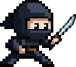
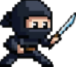
1

diff --git a/untitled game.py b/untitled game.py
@@ -1,0 +1,187 @@
+import pygame
+import sys
+import random
+
+pygame.init()
+
+WIDTH, HEIGHT = 800, 600
+screen = pygame.display.set_mode((WIDTH, HEIGHT))
+pygame.display.set_caption("untitled game.py")
+
+ninja_img = pygame.image.load("ninja.png").convert_alpha()
+ninja_attack_img = pygame.image.load("pixel_ninja_attack_wbackground.png").convert_alpha()
+background_img = pygame.image.load("dungeonbg.png").convert()
+zombie_img = pygame.image.load("zombie.png").convert_alpha()
+
+white = (255, 255, 255)
+black = (0, 0, 0)
+gray = (200, 200, 200)
+red = (255, 0, 0)
+green = (0, 255, 0)
+
+
+class Ninja(pygame.sprite.Sprite):
+    def __init__(self):
+        super().__init__()
+        self.normal_image = ninja_img
+        self.attack_image = ninja_attack_img
+        self.image = self.normal_image
+        self.rect = self.image.get_rect()
+        self.rect.center = (WIDTH // 2, HEIGHT // 2)
+        self.speed = 5
+        self.attacking = False
+        self.attack_timer = 0
+        self.attack_cooldown = 60
+        self.cooldown_timer = 0
+
+    def attack(self):
+        if not self.attacking and self.cooldown_timer == 0:
+            self.attacking = True
+            self.image = self.attack_image
+            self.attack_timer = 30
+            self.cooldown_timer = self.attack_cooldown
+
+    def update(self):
+        if self.attacking:
+            self.attack_timer -= 1
+            if self.attack_timer <= 0:
+                self.attacking = False
+                self.image = self.normal_image
+
+        if self.cooldown_timer > 0:
+            self.cooldown_timer -= 1
+
+
+class Zombie(pygame.sprite.Sprite):
+    def __init__(self, x):
+        super().__init__()
+        self.image = zombie_img
+        self.rect = self.image.get_rect()
+        self.rect.x = x
+        self.rect.bottom = HEIGHT - 250
+        self.speed = 2
+
+    def update(self, ninja_x):
+        if abs(self.rect.x - ninja_x) < 200:
+            if self.rect.x < ninja_x:
+                self.rect.x += self.speed
+            elif self.rect.x > ninja_x:
+                self.rect.x -= self.speed
+
+
+class Button:
+    def __init__(self, x, y, width, height, text, color, hover_color):
+        self.rect = pygame.Rect(x, y, width, height)
+        self.text = text
+        self.color = color
+        self.hover_color = hover_color
+        self.is_hovered = False
+
+    def draw(self, surface):
+        color = self.hover_color if self.is_hovered else self.color
+        pygame.draw.rect(surface, color, self.rect, border_radius=12)
+        pygame.draw.rect(surface, black, self.rect, 2, border_radius=12)
+        font = pygame.font.Font(None, 36)
+        text_surface = font.render(self.text, True, black)
+        text_rect = text_surface.get_rect(center=self.rect.center)
+        surface.blit(text_surface, text_rect)
+
+    def check_hover(self, pos):
+        self.is_hovered = self.rect.collidepoint(pos)
+
+    def handle_event(self, event):
+        if event.type == pygame.MOUSEBUTTONDOWN and event.button == 1 and self.is_hovered:
+            return True
+        return False
+
+
+class Screen:
+    def __init__(self):
+        self.buttons = []
+
+    def add_button(self, button):
+        self.buttons.append(button)
+
+    def draw(self, surface):
+        for button in self.buttons:
+            button.draw(surface)
+
+    def handle_events(self, event):
+        for button in self.buttons:
+            button.check_hover(pygame.mouse.get_pos())
+            if button.handle_event(event):
+                return button.text
+        return None
+
+
+main_menu = Screen()
+main_menu.add_button(Button(300, 200, 200, 50, "Начать", gray, green))
+main_menu.add_button(Button(300, 300, 200, 50, "Выход", gray, red))
+
+game_screen = Screen()
+
+name_screen = Screen()
+name_screen.add_button(Button(300, 200, 200, 50, "Продолжить", gray, green))
+
+ninja = Ninja()
+zombies = pygame.sprite.Group()
+bg_width = background_img.get_width()
+tiles = int(WIDTH / bg_width) + 2
+scroll = 0
+
+
+def create_zombie():
+    x = random.randint(0, bg_width - 1) + scroll
+    zombie = Zombie(x)
+    zombies.add(zombie)
+
+
+for a in range(tiles):
+    create_zombie()
+
+clock = pygame.time.Clock()
+running = True
+current_screen = main_menu
+
+while running:
+    for event in pygame.event.get():
+        if event.type == pygame.QUIT:
+            running = False
+        action = current_screen.handle_events(event)
+        if action == "Начать":
+            current_screen = game_screen
+        elif action == "Выход":
+            running = False
+        elif event.type == pygame.MOUSEBUTTONDOWN:
+            if event.button == 1 and current_screen == game_screen:
+                ninja.attack()
+
+    if current_screen == game_screen:
+        keys = pygame.key.get_pressed()
+        if keys[pygame.K_a]:
+            scroll += ninja.speed
+        if keys[pygame.K_d]:
+            scroll -= ninja.speed
+
+        ninja.update()
+        zombies.update(WIDTH // 2 - scroll)
+
+        for i in range(0, tiles):
+            screen.blit(background_img, (i * bg_width + scroll, 0))
+
+        if abs(scroll) > bg_width:
+            scroll = scroll % bg_width
+            create_zombie()
+
+        for zombie in zombies:
+            screen.blit(zombie.image, (zombie.rect.x + scroll, zombie.rect.y))
+
+        screen.blit(ninja.image, ninja.rect)
+    else:
+        current_screen.draw(screen)
+
+    pygame.display.flip()
+    clock.tick(60)
+
+pygame.quit()
+sys.exit()
